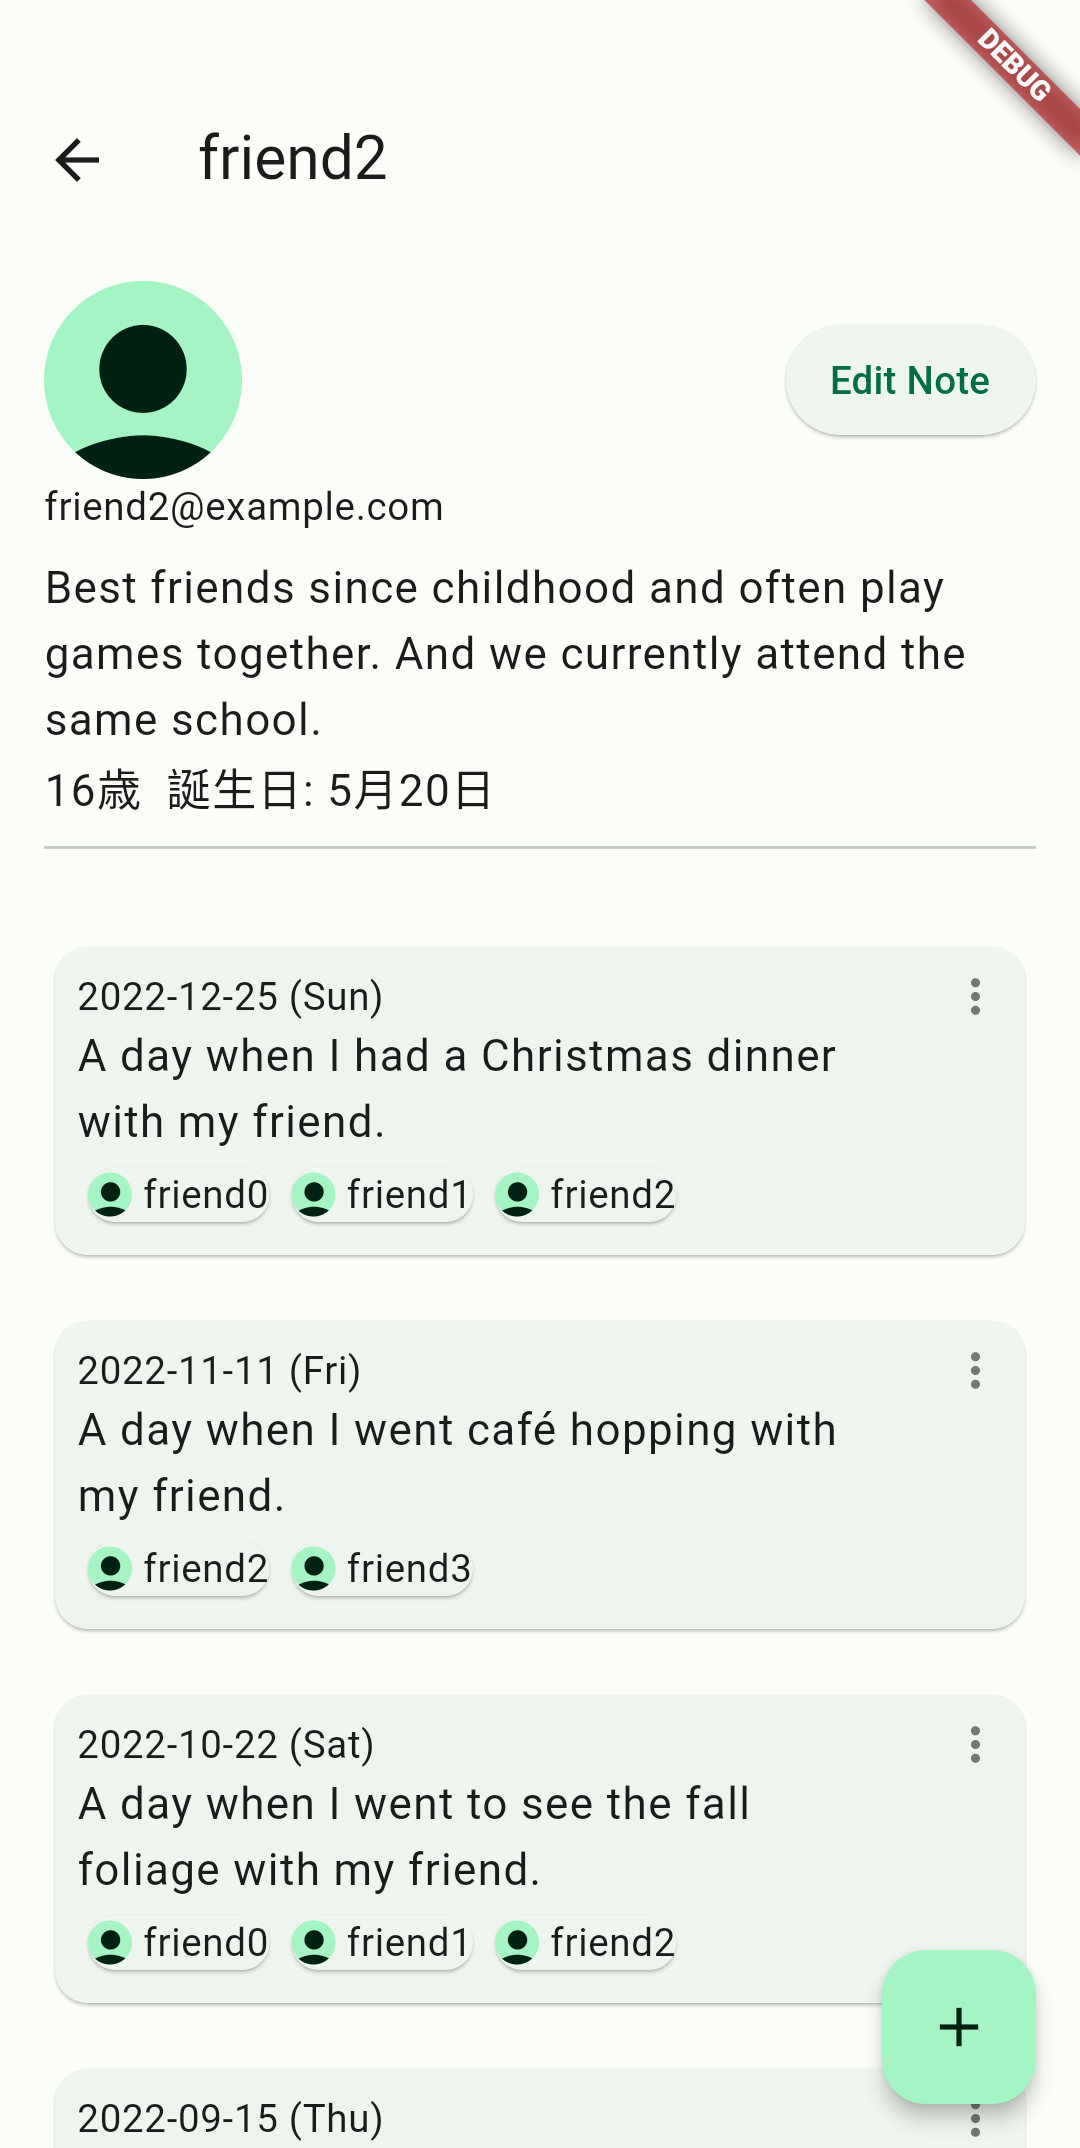
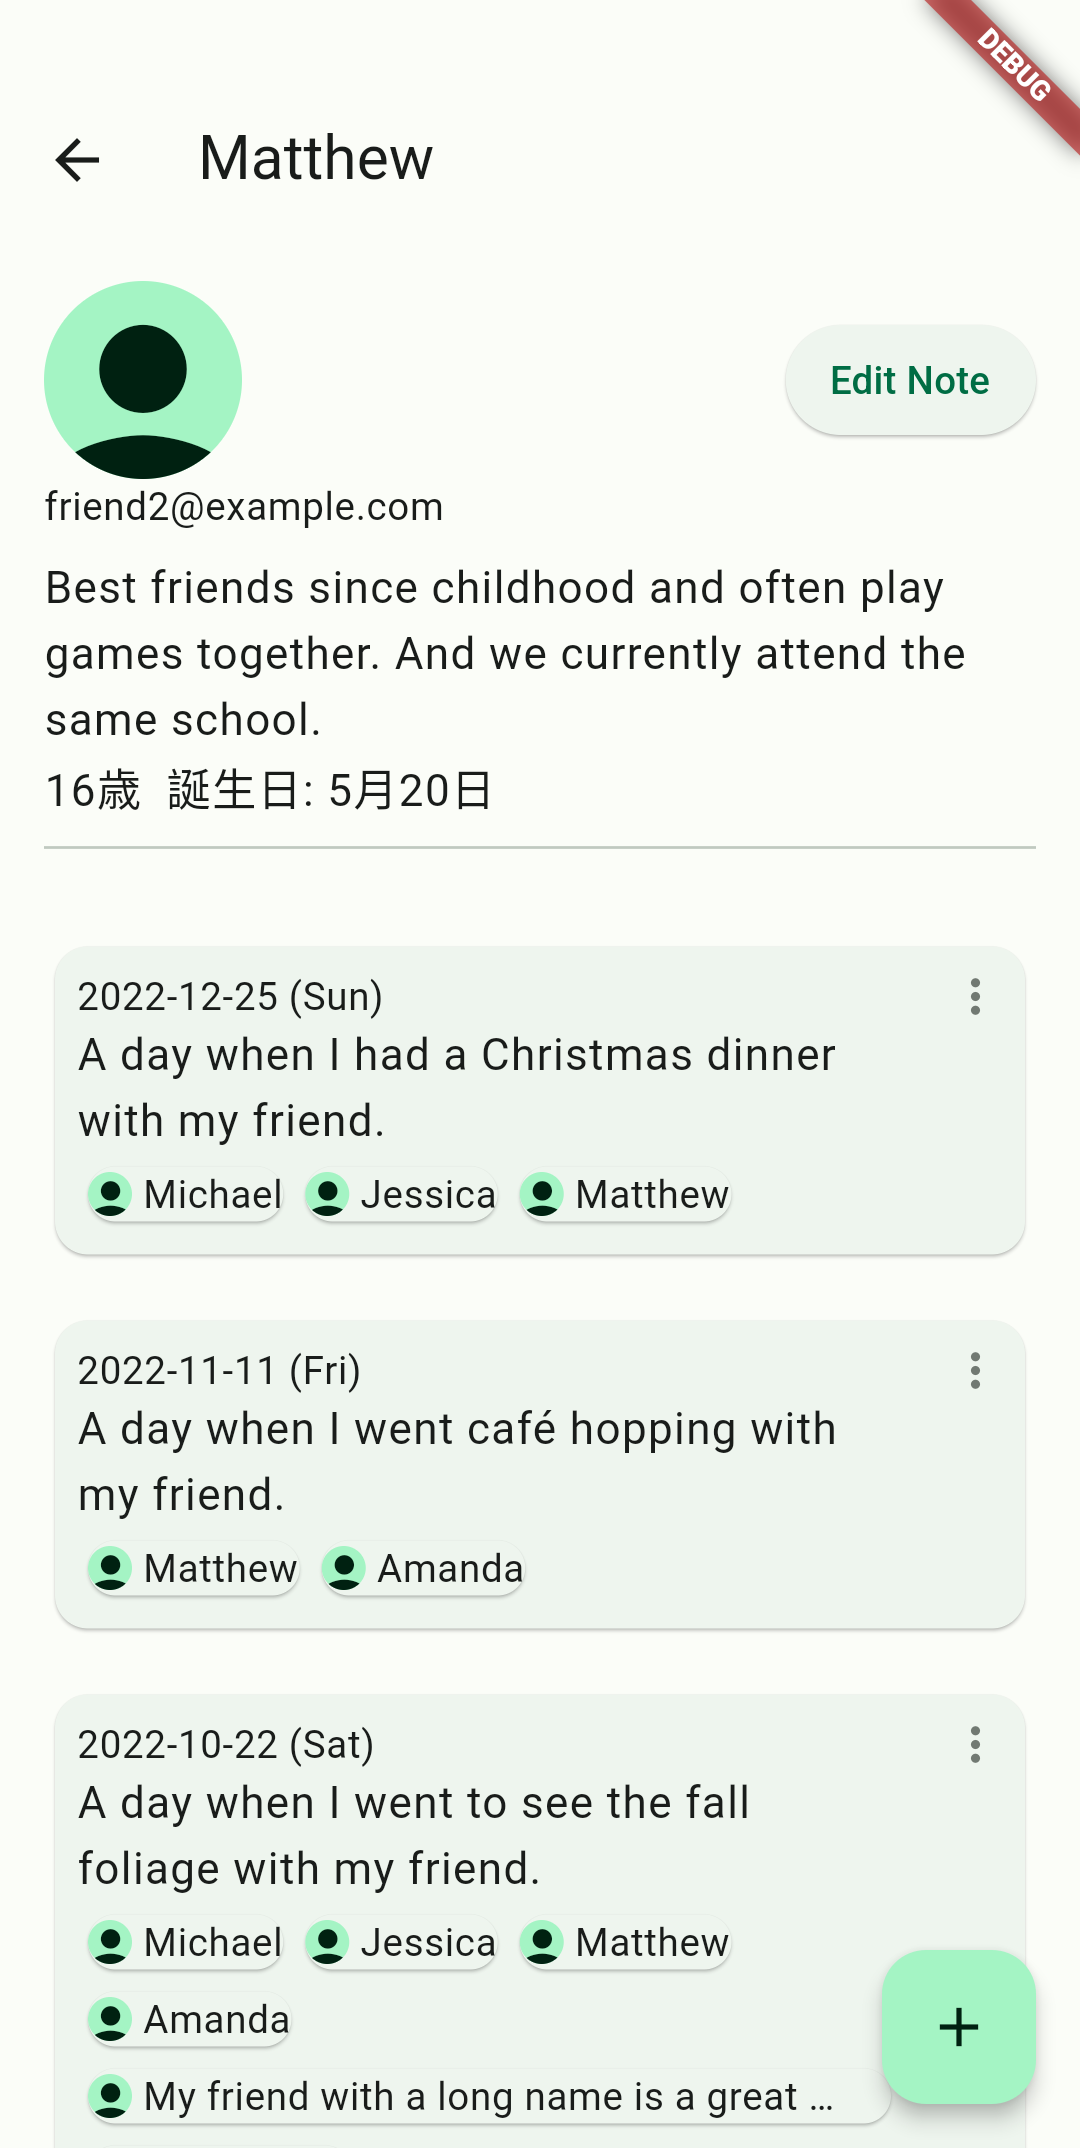
#19 feat: テストデータ改善

diff --git a/integration_test/usecase/person.dart b/integration_test/usecase/person.dart
@@ -6,7 +6,7 @@ import 'package:person_note/usecase/person.dart';
 final initData = <String, Person>{
   '0': Person(
     id: '0',
-    name: 'friend0',
+    name: 'Michael',
     memo: '',
     created: DateTime.now(),
     updated: DateTime.now(),
@@ -14,7 +14,7 @@ final initData = <String, Person>{
   ),
   '1': Person(
     id: '1',
-    name: 'friend1',
+    name: 'Jessica',
     memo: '',
     created: DateTime.now(),
     updated: DateTime.now(),
@@ -22,7 +22,7 @@ final initData = <String, Person>{
   ),
   '2': Person(
     id: '2',
-    name: 'friend2',
+    name: 'Matthew',
     age: 16,
     birthday: DateTime(2023, 5, 20),
     email: 'friend2@example.com',
@@ -34,7 +34,7 @@ final initData = <String, Person>{
   ),
   '3': Person(
     id: '3',
-    name: 'friend3',
+    name: 'Amanda',
     memo: '',
     created: DateTime.now(),
     updated: DateTime.now(),
@@ -42,7 +42,7 @@ final initData = <String, Person>{
   ),
   '4': Person(
     id: '4',
-    name: 'friend4',
+    name: 'My friend with a long name is a great person to be around',
     memo: '',
     created: DateTime.now(),
     updated: DateTime.now(),
@@ -50,7 +50,7 @@ final initData = <String, Person>{
   ),
   '5': Person(
     id: '5',
-    name: 'friend5',
+    name: 'Christopher',
     memo: '',
     created: DateTime.now(),
     updated: DateTime.now(),

diff --git a/integration_test/screenshot_test.dart b/integration_test/screenshot_test.dart
@@ -3,7 +3,6 @@ import 'package:flutter_test/flutter_test.dart';
 import 'package:hooks_riverpod/hooks_riverpod.dart';
 import 'package:integration_test/integration_test.dart';
 import 'package:intl/date_symbol_data_local.dart';
-import 'package:intl/intl.dart';
 import 'package:person_note/app.dart';
 import 'package:person_note/provider/auth.dart';
 import 'package:person_note/provider/event.dart';
@@ -39,7 +38,7 @@ void main() {
     await tester.pumpAndSettle();
     await binding.takeScreenshot('top_page');
 
-    await tester.tap(find.text('friend2'));
+    await tester.tap(find.text('Matthew'));
     await tester.pumpAndSettle();
     await binding.takeScreenshot('detail_page');
 

diff --git a/integration_test/usecase/event.dart b/integration_test/usecase/event.dart
@@ -40,7 +40,7 @@ final initData = <String, Event>{
     text: 'A day when I went to see the fall foliage with my friend.',
     created: DateTime.now(),
     updated: DateTime.now(),
-    personIdList: ['0', '1', '2'],
+    personIdList: ['0', '1', '2', '3', '4', '5'],
   ),
   '5': Event(
     id: '5',
